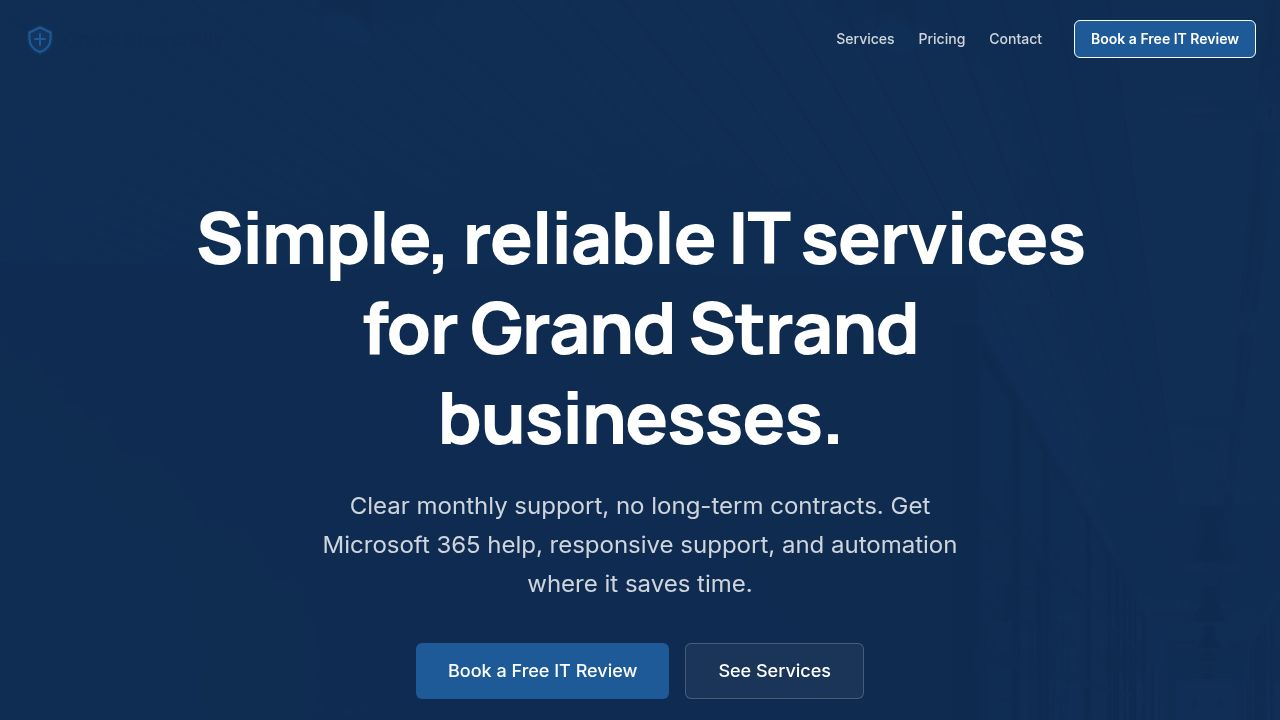
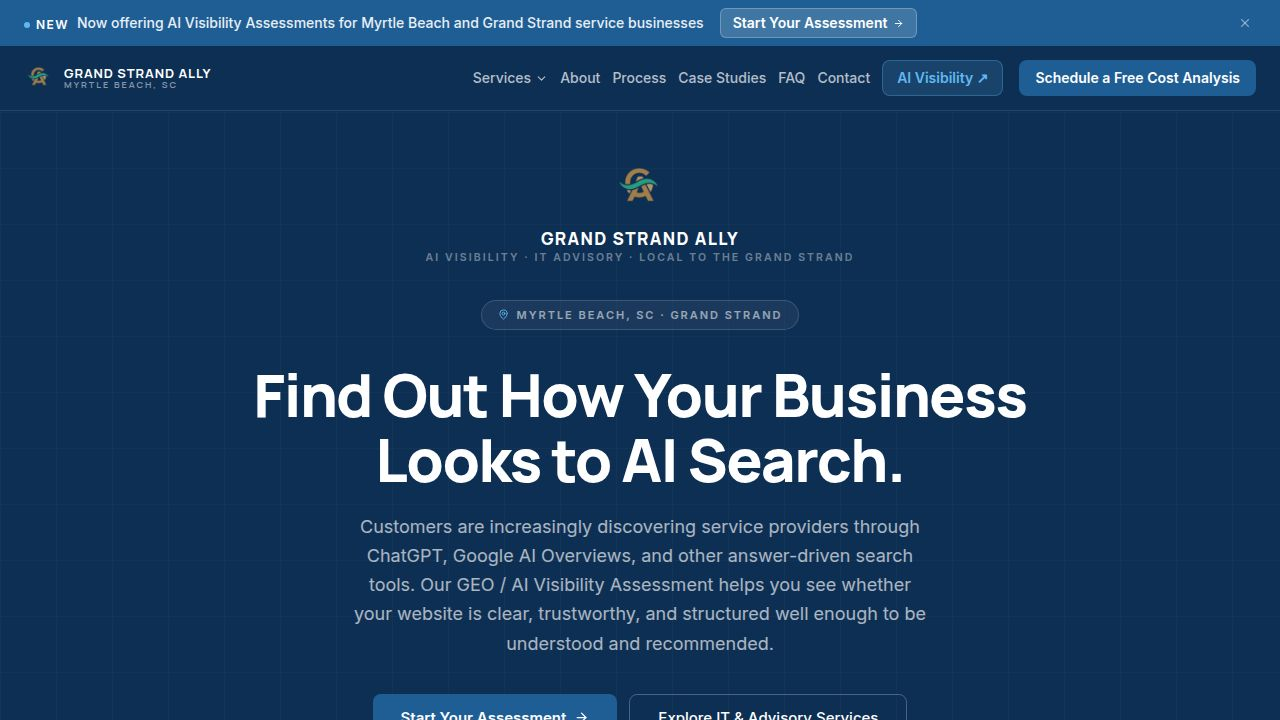
Update website content to improve clarity and AI search visibility
Refactor Home.tsx, GeoAnnouncementBar.tsx, and content.ts to update website copy, adjust CTAs, and introduce new chips for improved user experience and search engine understanding.

Replit-Commit-Author: Agent
Replit-Commit-Session-Id: a7cdcb64-b11b-4844-8a4c-8d77b0c8ede0
Replit-Commit-Checkpoint-Type: full_checkpoint
Replit-Commit-Event-Id: b6b6513a-4ad3-4d58-86d6-7b3f4447895e
Replit-Commit-Screenshot-Url: https://storage.googleapis.com/screenshot-production-us-central1/b3479708-9e99-4fe5-92d3-431a78895c2c/a7cdcb64-b11b-4844-8a4c-8d77b0c8ede0/MOYaRBi
Replit-Helium-Checkpoint-Created: true

diff --git a/artifacts/grand-strand-ally/src/lib/content.ts b/artifacts/grand-strand-ally/src/lib/content.ts
@@ -1,60 +1,62 @@
 export const content = {
   hero: {
-    headline: "Find Out How Your Business Shows Up in AI Search.",
-    subheadline: "Customers increasingly discover service providers through ChatGPT, Google AI Overviews, and answer-driven search. Our GEO / AI Visibility Assessment helps you understand whether your website is clear, structured, and trustworthy enough to be recommended.",
-    primaryButton: "Start Your GEO Assessment",
+    headline: "Find Out How Your Business Looks to AI Search.",
+    subheadline: "Customers are increasingly discovering service providers through ChatGPT, Google AI Overviews, and other answer-driven search tools. Our GEO / AI Visibility Assessment helps you see whether your website is clear, trustworthy, and structured well enough to be understood and recommended.",
+    primaryButton: "Start Your Assessment",
     secondaryButton: "Explore IT & Advisory Services",
   },
   problems: {
-    heading: "Common areas where businesses seek clarity.",
+    heading: "Where businesses often lose clarity.",
     cards: [
       {
-        title: "Limited visibility into current information technology costs",
-        description: "Monthly spending across support, software, security, and subscriptions can become difficult to track — especially when multiple vendors are involved and individual line items are unclear.",
+        title: "Unclear service pages and thin website content",
+        description: "When service pages are vague, incomplete, or hard to navigate, both visitors and AI search tools have difficulty understanding what the business does — and who it actually serves.",
       },
       {
-        title: "Overlapping tools and fragmented vendor ownership",
-        description: "Many environments carry redundant tools for backup, email security, endpoint protection, or user management that overlap without meaningfully improving outcomes or reducing cost.",
+        title: "Missing trust signals and FAQ coverage",
+        description: "AI-driven search systems look for clear FAQ pages, consistent trust cues, and well-structured service descriptions. When these are absent or weak, a business can be passed over in favor of better-structured competitors.",
       },
       {
-        title: "Inconsistent processes and compliance-minded controls",
-        description: "Onboarding, offboarding, access management, and documentation often develop inconsistently over time, creating operational complexity and potential compliance exposure.",
+        title: "Fragmented systems and unclear operational structure",
+        description: "Over time, tools, vendors, and internal processes accumulate without clear ownership — making the business harder to manage, harder to document, and harder to present confidently to new customers.",
       },
     ],
   },
   coreSystems: [
     {
       id: "cost",
-      name: "Cost and Vendor Analysis",
-      problem: "Many environments carry multiple subscriptions, unclear spend lines, and tool overlap that is difficult to see from within.",
-      solution: "We review current spending, identify redundant tools and vendors, and help build a simpler and more cost-effective support model.",
+      name: "IT Cost Clarity and Vendor Review",
+      problem: "Many businesses carry unclear spend lines, redundant tools, and vendor overlap that is difficult to see from within — adding cost without improving outcomes.",
+      solution: "We review current spending, identify redundant tools and vendors, and help build a simpler, more cost-effective support model with clearer ownership across the stack.",
     },
     {
       id: "support",
-      name: "Information Technology Support and Microsoft 365",
-      problem: "Support coverage and Microsoft 365 administration are often inconsistent, over-provisioned, or unclear in scope and ownership.",
-      solution: "Predictable monthly support with right-sized Microsoft 365 licensing and cleaner administrative controls.",
+      name: "Technology Support and Administration",
+      problem: "Support coverage and Microsoft 365 administration are often inconsistent, over-provisioned, or unclear in scope — creating gaps in ownership and accountability.",
+      solution: "Predictable monthly support with right-sized licensing, cleaner administrative controls, and documented ownership so there are no surprises when something needs attention.",
     },
     {
       id: "compliance",
-      name: "Compliance, Security, and User Lifecycle Management",
-      problem: "Access management, onboarding and offboarding, and compliance documentation often develop without consistent standards.",
-      solution: "Practical security controls and consistent user lifecycle processes built for compliance-conscious teams.",
+      name: "Compliance, Security, and Operational Structure",
+      problem: "Access management, onboarding and offboarding processes, and compliance documentation often develop without consistent standards — creating operational complexity and potential exposure over time.",
+      solution: "Practical security controls and consistent user lifecycle processes built for compliance-conscious teams that want cleaner, more defensible operations.",
     },
   ],
   whoWeHelp: {
-    heading: "A good fit for growing businesses.",
+    heading: "A good fit for service businesses ready to get clearer.",
     goodFit: [
-      "Small and medium businesses with multiple information technology vendors",
-      "Teams seeking better visibility into current costs and vendor structure",
-      "Microsoft 365 environments that would benefit from improved administration",
-      "Organizations looking to improve onboarding and offboarding processes",
-      "Compliance-conscious teams that want stronger operational controls",
+      "Service businesses that rely on inbound inquiries, local reputation, and trust",
+      "Companies with thin, vague, or unclear service pages that may underperform in AI-driven search",
+      "Teams that want to understand their AI visibility gaps before investing further in marketing",
+      "Businesses with multiple service areas that need clearer website structure and positioning",
+      "Compliance-conscious or trust-dependent organizations with operational complexity",
+      "Small and medium businesses looking to simplify their IT vendor structure and reduce unnecessary costs",
     ],
     probablyNot: [
-      "Very small teams with minimal recurring information technology infrastructure",
-      "Organizations looking only for one-time project support",
-      "Businesses not yet ready to review current tools or spending",
+      "Brand-new businesses with no established services, content, or website presence",
+      "Organizations expecting guaranteed search rankings or instant results",
+      "Teams unwilling to review or improve existing site content and service page clarity",
+      "Very small setups with minimal infrastructure and no near-term growth intent",
     ],
   },
   howWeWork: {
@@ -63,17 +65,17 @@ export const content = {
       {
         step: "01",
         title: "Review",
-        desc: "Understand your current tools, vendors, Microsoft 365 setup, and support structure",
+        desc: "Understand your current site, systems, tools, vendors, and visibility gaps",
       },
       {
         step: "02",
         title: "Identify",
-        desc: "Identify opportunities to simplify, consolidate, and strengthen controls",
+        desc: "Identify the clearest structural, content, and operational opportunities",
       },
       {
         step: "03",
         title: "Strengthen",
-        desc: "Improve support coverage, security baseline, and compliance-minded processes",
+        desc: "Strengthen the pages, trust signals, and workflows that affect clarity most",
       },
       {
         step: "04",
@@ -86,16 +88,16 @@ export const content = {
     heading: "Why businesses choose Grand Strand Ally.",
     cards: [
       {
-        title: "Improved cost visibility",
-        description: "We help clients understand what they are paying for, where tools overlap, and how to build a simpler and more predictable support model.",
+        title: "Clearer picture of what is working",
+        description: "We help clients understand how their website, systems, and vendor structure appear from the outside — and where gaps are affecting clarity, trust, and discoverability.",
       },
       {
-        title: "Simplified vendor structure",
-        description: "We look for redundant subscriptions, overlapping security layers, and vendor sprawl that adds cost without meaningfully improving outcomes.",
+        title: "Simpler systems and cleaner structure",
+        description: "We look for redundant tools, unclear vendor relationships, and structural complexity that adds cost or confusion without meaningfully improving outcomes.",
       },
       {
-        title: "Compliance-minded support",
-        description: "We build support, access management, onboarding and offboarding, and documentation with compliance in mind — practical, cleaner, and easier to maintain.",
+        title: "Practical, compliance-minded recommendations",
+        description: "We approach access management, documentation, and user lifecycle processes with compliance in mind — practical, cleaner, and easier to maintain over time.",
       },
       {
         title: "Month-to-month flexibility",
@@ -114,17 +116,17 @@ export const content = {
     "Compliance-minded process gaps",
   ],
   finalCta: {
-    headline: "Bring more clarity to your information technology costs and support structure.",
-    copy: "A free cost analysis is a structured first step — no obligation, no pressure, just a clear view of your current tools, costs, and areas for practical improvement.",
+    headline: "Want to know how clearly your business is positioned for AI search?",
+    copy: "Start with the GEO / AI Visibility Assessment and get practical next steps — no hype, no obligation. For IT cost clarity, the free cost analysis is also available as a separate path.",
   },
   faq: [
     {
-      question: "What does a free cost analysis involve?",
-      answer: "A structured review of your current information technology environment — tools, vendors, Microsoft 365 setup, security layers, and support model. The goal is to help you understand what you are paying for and identify practical opportunities to simplify.",
+      question: "What does the GEO / AI Visibility Assessment include?",
+      answer: "A structured review of how your website is positioned for AI-driven search — covering service page clarity, FAQ and trust content, internal linking, AI visibility gaps, and practical next-step recommendations. You receive a focused written report with prioritized actions.",
     },
     {
-      question: "Can you review what we are currently paying for?",
-      answer: "Yes. Improving visibility into current spend is one of the primary goals. We identify where tools overlap, where licensing may be over-provisioned, and where consolidation could reduce cost without weakening support.",
+      question: "What does a free IT cost analysis involve?",
+      answer: "A structured review of your current information technology environment — tools, vendors, Microsoft 365 setup, security layers, and support model. The goal is to help you understand what you are paying for and identify practical opportunities to simplify.",
     },
     {
       question: "Can you help us consolidate overlapping tools?",

diff --git a/artifacts/grand-strand-ally/src/pages/Home.tsx b/artifacts/grand-strand-ally/src/pages/Home.tsx
@@ -111,7 +111,7 @@ export default function Home() {
               data-geo-cta="hero-primary-cta"
               className="inline-flex items-center justify-center gap-2 bg-[#1F5E95] hover:bg-[#1a5080] text-white font-semibold h-12 px-7 text-[15px] rounded-lg transition-colors"
             >
-              Start Your GEO Assessment <ArrowRight size={15} aria-hidden="true" />
+              Start Your Assessment <ArrowRight size={15} aria-hidden="true" />
             </a>
             <Button
               asChild
@@ -121,6 +121,15 @@ export default function Home() {
             >
               <Link href="/services">Explore IT &amp; Advisory Services</Link>
             </Button>
+          </div>
+
+          <div className="flex items-center justify-center gap-3 mt-5 flex-wrap">
+            {["Practical review", "Clear deliverables", "No hype"].map((chip) => (
+              <span key={chip} className="inline-flex items-center gap-1.5 text-[11px] font-medium text-white/45 border border-white/15 rounded-full px-3.5 py-1">
+                <span className="w-1 h-1 rounded-full bg-[#60B8F0] shrink-0" />
+                {chip}
+              </span>
+            ))}
           </div>
 
         </div>
@@ -153,10 +162,10 @@ export default function Home() {
               GEO / AI Visibility Assessment
             </span>
             <h2 className="text-3xl md:text-4xl font-heading font-bold text-white leading-tight mb-4">
-              What the Assessment Reviews
+              What the GEO / AI Visibility Assessment Reviews
             </h2>
             <p className="text-white/65 text-[15px] max-w-2xl mx-auto leading-relaxed">
-              Many websites look fine at a glance but may not be clearly understood by AI-driven search systems. The assessment reviews your site across five areas that directly affect whether AI tools can find, understand, and recommend you.
+              Many business websites look fine at a glance but may not be clearly understood by AI-driven search systems. This assessment helps show whether your services, trust signals, structure, and content are strong enough to support visibility in answer-driven search.
             </p>
           </div>
 
@@ -253,10 +262,10 @@ export default function Home() {
           <div className="text-center mb-10">
             <span className="text-[11px] font-bold uppercase tracking-[0.2em] text-[#4B5B6B] flex items-center justify-center gap-1.5 mb-3">
               <span className="w-1.5 h-1.5 rounded-full bg-[#1F5E95] inline-block" />
-              How we help
+              Our services
             </span>
             <h2 className="text-3xl md:text-4xl font-heading font-bold text-[#0E2F54] leading-tight">
-              Three core service areas.
+              How we help businesses get clearer.
             </h2>
           </div>
           <div className="grid grid-cols-1 md:grid-cols-3 gap-5 max-w-5xl mx-auto">

diff --git a/artifacts/grand-strand-ally/src/components/GeoAnnouncementBar.tsx b/artifacts/grand-strand-ally/src/components/GeoAnnouncementBar.tsx
@@ -47,7 +47,7 @@ export function GeoAnnouncementBar() {
               <span className="w-1.5 h-1.5 rounded-full bg-[#60B8F0] inline-block shrink-0" />
               <span className="font-bold text-white text-[11px] sm:text-xs uppercase tracking-[0.12em]">New</span>
             </span>
-            AI Visibility / GEO Assessments for Myrtle Beach and Grand Strand service businesses
+            Now offering AI Visibility Assessments for Myrtle Beach and Grand Strand service businesses
           </p>
           <a
             href={GEO_ASSESSMENT_URL}
@@ -56,7 +56,7 @@ export function GeoAnnouncementBar() {
             data-geo-cta="announcement-bar"
             className="inline-flex items-center gap-1.5 bg-white/15 hover:bg-white/25 border border-white/25 rounded-md px-3 py-1 text-xs sm:text-sm font-semibold text-white whitespace-nowrap transition-colors shrink-0"
           >
-            Start Your GEO Assessment <ArrowRight size={11} aria-hidden="true" />
+            Start Your Assessment <ArrowRight size={11} aria-hidden="true" />
           </a>
         </div>
         <button